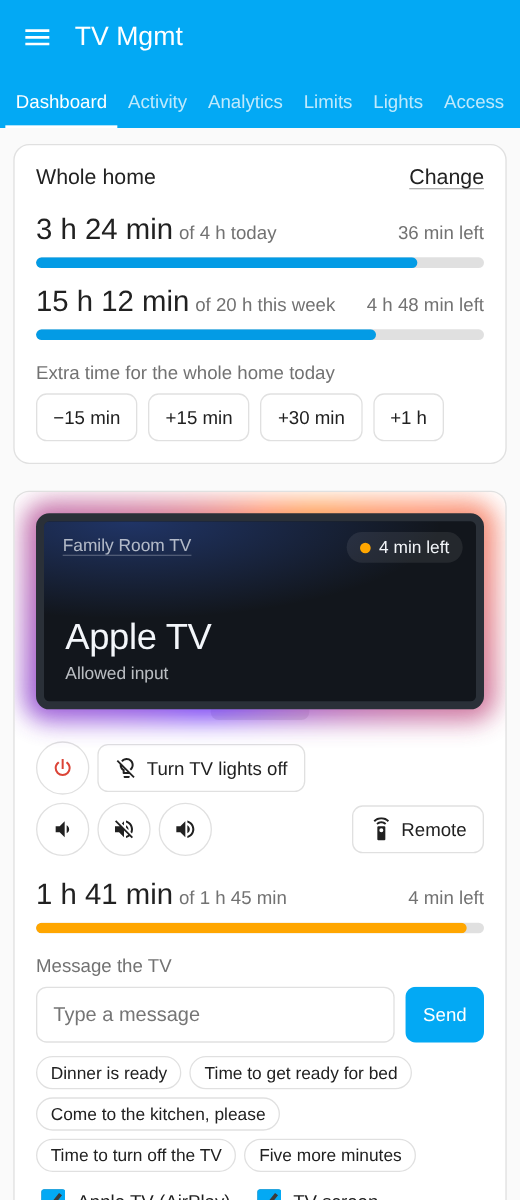
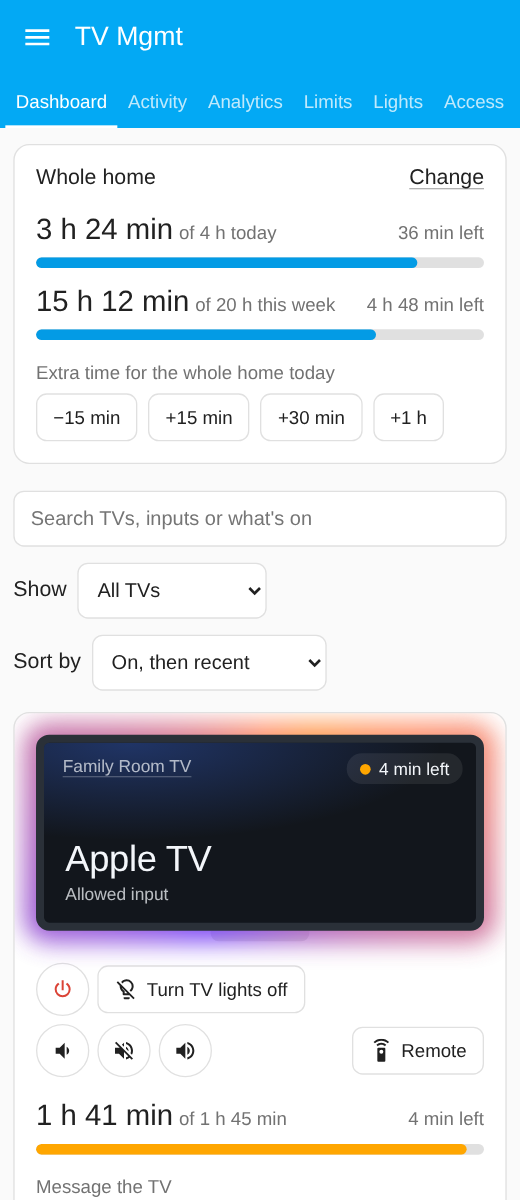
Release 1.19.0
Claude-Session: https://claude.ai/code/session_01LzktUr4qADPYKbCumQAMGZ

diff --git a/custom_components/tv_mgmt/frontend/tv-mgmt-panel.js b/custom_components/tv_mgmt/frontend/tv-mgmt-panel.js
@@ -2,6 +2,20 @@
 // Talks to the integration over Home Assistant's websocket (tv_mgmt/* commands).
 
 const EXPANDED_KEY = "tv-mgmt-expanded";
+const DASH_KEY = "tv-mgmt-dashboard";
+const DASH_SORTS = [
+  { id: "activity", label: "On, then recent" },
+  { id: "name", label: "Name" },
+  { id: "watched", label: "Most watched today" },
+];
+const DASH_SHOWS = [
+  { id: "all", label: "All TVs" },
+  { id: "on", label: "On now" },
+  { id: "today", label: "Watched today" },
+  { id: "off", label: "Off" },
+  { id: "blocked", label: "Blocked" },
+  { id: "unreachable", label: "Can't reach" },
+];
 
 const TABS = [
   { id: "dashboard", label: "Dashboard" },
@@ -458,6 +472,10 @@ main.wide { max-width: 1760px; }
 .switch input:focus-visible + span { outline: 2px solid var(--primary-color); outline-offset: 2px; }
 
 .toolbar { display: flex; flex-wrap: wrap; gap: 12px; align-items: center; justify-content: space-between; margin-bottom: 16px; }
+.dash-tools { justify-content: flex-start; }
+.dash-tools .inline { display: inline-flex; align-items: center; gap: 8px; }
+.dash-tools select { width: auto; }
+.dash-search { flex: 1; min-width: 220px; max-width: 420px; }
 .picker { display: flex; flex-wrap: wrap; gap: 6px; }
 .picker .btn[aria-pressed="true"] { background: var(--primary-color); color: var(--text-primary-color, #fff); border-color: transparent; }
 .date-nav { display: flex; align-items: center; gap: 4px; }
@@ -708,6 +726,83 @@ class TvMgmtPanel extends HTMLElement {
     }
     this._msgDrafts = {};
     this._msgNote = {};
+    // Dashboard sort and filter, remembered on this device; the search isn't.
+    this._dash = { sort: "activity", show: "all", query: "" };
+    try {
+      const saved = JSON.parse(localStorage.getItem(DASH_KEY) || "{}");
+      if (DASH_SORTS.some((o) => o.id === saved.sort)) this._dash.sort = saved.sort;
+      if (DASH_SHOWS.some((o) => o.id === saved.show)) this._dash.show = saved.show;
+    } catch (err) {
+      /* storage unavailable: the defaults */
+    }
+    // When each TV was last seen on in this browser, so one just turned off
+    // moves to "recent" before the next refresh.
+    this._seenOn = {};
+    this._onNow = new Set();
+  }
+
+  _saveDash() {
+    try {
+      localStorage.setItem(DASH_KEY, JSON.stringify({ sort: this._dash.sort, show: this._dash.show }));
+    } catch (err) {
+      /* not remembered, still works */
+    }
+  }
+
+  // The TV's power from Home Assistant right now: true, false, or null when
+  // it can't be reached. Falls back to what the backend last reported.
+  _tvOn(p) {
+    const st = this._hass?.states?.[p.tv_entity_id];
+    if (!st) return p.is_on;
+    if (["unavailable", "unknown"].includes(st.state)) return null;
+    return !["off", "standby"].includes(st.state);
+  }
+
+  // A TV that was on and now isn't was just watched.
+  _noteOn() {
+    for (const p of this._profiles || []) {
+      if (this._tvOn(p) === true) this._onNow.add(p.entry_id);
+      else if (this._onNow.delete(p.entry_id)) this._seenOn[p.entry_id] = Date.now();
+    }
+  }
+
+  // Infinity while on, so TVs that are on come first and sort by name among
+  // themselves; otherwise the newest of the backend's log and this browser.
+  _lastOn(p) {
+    if (this._tvOn(p) === true) return Infinity;
+    const logged = p.last_on ? new Date(p.last_on).getTime() : 0;
+    return Math.max(logged || 0, this._seenOn[p.entry_id] || 0);
+  }
+
+  _dashProfiles() {
+    const d = this._dash;
+    const query = d.query.toLowerCase();
+    const today = new Date();
+    today.setHours(0, 0, 0, 0);
+    const matches = (p) => {
+      if (!query) return true;
+      const atv = p.apple_tv?.entity_id ? this._hass?.states?.[p.apple_tv.entity_id]?.attributes || {} : {};
+      return [p.name, nameOf(p, p.current_input), atv.app_name, atv.media_title, atv.media_series_title]
+        .some((v) => v && String(v).toLowerCase().includes(query));
+    };
+    const shows = {
+      all: () => true,
+      on: (p) => this._tvOn(p) === true,
+      today: (p) => this._lastOn(p) >= today.getTime() || p.used_seconds > 0,
+      off: (p) => this._tvOn(p) === false,
+      blocked: (p) => p.state === "enforcing" || p.force_block,
+      unreachable: (p) => this._tvOn(p) == null,
+    };
+    const byName = (a, b) => a.name.localeCompare(b.name);
+    const sorts = {
+      // Infinity - Infinity is NaN, which counts as a tie.
+      activity: (a, b) => this._lastOn(b) - this._lastOn(a) || byName(a, b),
+      name: byName,
+      watched: (a, b) => b.used_seconds - a.used_seconds || byName(a, b),
+    };
+    return this._profiles
+      .filter((p) => (shows[d.show] || shows.all)(p) && matches(p))
+      .sort(sorts[d.sort] || sorts.activity);
   }
 
   _toggleExpanded(id) {
@@ -758,6 +853,15 @@ class TvMgmtPanel extends HTMLElement {
   // Redraw just the Apple TV "Now playing" spots when their media player changes.
   _refreshNowPlaying() {
     if (this._tab !== "dashboard" || !this._profiles) return;
+    this._noteOn();
+    // Move TVs that turned on or off, unless someone is using a control or
+    // typing (it would jump away from under them).
+    const active = this.shadowRoot.activeElement;
+    const busy = active && ["INPUT", "SELECT", "TEXTAREA"].includes(active.tagName);
+    if (!busy && this._dashProfiles().map((p) => p.entry_id).join(",") !== this._dashOrder) {
+      this._render();
+      return;
+    }
     this._npStates = this._npStates || {};
     this._ambStates = this._ambStates || {};
     for (const p of this._profiles) {
@@ -1081,7 +1185,21 @@ class TvMgmtPanel extends HTMLElement {
   // Dashboard ------------------------------------------------------------------------
 
   _renderDashboard() {
-    return `${this._renderHomeStrip()}<div class="grid">${this._profiles.map((p) => this._renderTv(p)).join("")}</div>`;
+    this._noteOn();
+    const shown = this._dashProfiles();
+    this._dashOrder = shown.map((p) => p.entry_id).join(",");
+    const d = this._dash;
+    const toolbar = this._profiles.length > 1
+      ? `<div class="toolbar dash-tools">
+          <input type="text" id="dash-search" class="dash-search" placeholder="Search TVs, inputs or what's on" value="${esc(d.query)}" aria-label="Search TVs" autocomplete="off">
+          <label class="inline">Show <select id="dash-show">${DASH_SHOWS.map((o) => `<option value="${o.id}" ${o.id === d.show ? "selected" : ""}>${o.label}</option>`).join("")}</select></label>
+          <label class="inline">Sort by <select id="dash-sort">${DASH_SORTS.map((o) => `<option value="${o.id}" ${o.id === d.sort ? "selected" : ""}>${o.label}</option>`).join("")}</select></label>
+        </div>`
+      : "";
+    const body = shown.length
+      ? `<div class="grid">${shown.map((p) => this._renderTv(p)).join("")}</div>`
+      : `<div class="empty"><h2>No TVs match</h2><p>${d.query ? "Try another search, or " : ""}<button class="btn" data-dash-reset>Show all TVs</button></p></div>`;
+    return `${this._renderHomeStrip()}${toolbar}${body}`;
   }
 
   // The whole home's TV time, above the TVs, when a home limit is set.
@@ -3028,6 +3146,12 @@ class TvMgmtPanel extends HTMLElement {
       this._toggleShow(el.dataset.id, el.dataset.blockShow);
       return;
     }
+    if (el.dataset.dashReset !== undefined) {
+      this._dash = { ...this._dash, show: "all", query: "" };
+      this._saveDash();
+      this._render();
+      return;
+    }
     if (el.dataset.expand) {
       this._toggleExpanded(el.dataset.expand);
       return;
@@ -3080,6 +3204,12 @@ class TvMgmtPanel extends HTMLElement {
 
   _onChange(ev) {
     const input = ev.target;
+    if (input.id === "dash-sort" || input.id === "dash-show") {
+      this._dash[input.id === "dash-sort" ? "sort" : "show"] = input.value;
+      this._saveDash();
+      this._render();
+      return;
+    }
     if (this._tab === "lights" && this._onLightsChange(input)) return;
     if (input.dataset.light !== undefined && this._lightsDraft) {
       if (input.checked) this._lightsDraft.picked.add(input.dataset.light);
@@ -3141,6 +3271,17 @@ class TvMgmtPanel extends HTMLElement {
   }
 
   _onInput(ev) {
+    if (ev.target.id === "dash-search") {
+      const box = ev.target;
+      clearTimeout(this._dashTimer);
+      this._dashTimer = setTimeout(() => {
+        this._dash.query = box.value.trim();
+        this._render();
+        const again = this.shadowRoot.getElementById("dash-search");
+        if (again) { again.focus(); again.setSelectionRange(again.value.length, again.value.length); }
+      }, 200);
+      return;
+    }
     if (this._tab === "lights" && this._onLightsInput(ev.target)) return;
     if (ev.target.dataset.lightFilter !== undefined && this._lightsDraft) {
       this._lightsDraft.filter = ev.target.value;

diff --git a/scripts/panel-preview/index.html b/scripts/panel-preview/index.html
@@ -158,6 +158,16 @@ const lightTvs = {
         failed_lights: {}, last_error: null, pending: null, save_title: null, outcome: null, players: ["media_player.playroom_tv"], name: "Ceiling" }, entities: {} },
   ] },
 };
+profiles[0].last_on = t(17, 5);
+profiles[1].last_on = t(16, 0);
+// many=1: two more TVs, off, one watched a few minutes ago, for the
+// dashboard's order, search and filters.
+if (params.get("many")) {
+  profiles.push({ ...profiles[1], entry_id: "den", name: "Den TV", tv_entity_id: "media_player.den_tv", state: "ok", reason: null, used_seconds: 20*60, last_on: t(19, 30) });
+  profiles.push({ ...profiles[1], entry_id: "gar", name: "Garage TV", tv_entity_id: "media_player.garage_tv", state: "ok", reason: null, used_seconds: 0, last_on: null, is_on: null });
+  states["media_player.den_tv"] = { entity_id: "media_player.den_tv", state: "off", attributes: {} };
+  states["media_player.garage_tv"] = { entity_id: "media_player.garage_tv", state: "unavailable", attributes: {} };
+}
 // blocked=1: the Family Room TV off for bedtime, its zones paused (as on a real
 // evening). Zones can still be changed and removed.
 if (params.get("blocked")) {

diff --git a/scripts/panel-preview/shoot.py b/scripts/panel-preview/shoot.py
@@ -8,7 +8,7 @@ width in light and dark themes. Fails if the page logs any error.
 
 The page takes query parameters: theme=light|dark, single=1 (one TV),
 empty=1 (no TVs), denied=1 (a user without access), nohome=1 (no whole-home limit),
-blocked=1 (the first TV off for bedtime, its light zones paused), busy=1 (a live
+blocked=1 (the first TV off for bedtime, its light zones paused), many=1 (two more TVs, for the dashboard's order, search and filters), busy=1 (a live
 update every 50 ms, as with lots of media players), loading=1 (every
 request stays loading) and loading=tabs (the TVs load, each tab's data stays
 loading), to see the placeholders; saved as loading-*.png.

diff --git a/custom_components/tv_mgmt/activity.py b/custom_components/tv_mgmt/activity.py
@@ -185,6 +185,18 @@ class ActivityLog:
     # ---- reading ---------------------------------------------------------------
 
     @property
+    def last_on(self) -> str | None:
+        """When the TV was last on: the latest time it turned on or off."""
+        return next(
+            (
+                event["t"]
+                for event in reversed(self.events)
+                if event["type"] in (EV_TV_ON, EV_TV_OFF)
+            ),
+            None,
+        )
+
+    @property
     def last_power(self) -> tuple[bool | None, str | None]:
         """(on, source) as last logged."""
         on: bool | None = None

diff --git a/custom_components/tv_mgmt/websocket.py b/custom_components/tv_mgmt/websocket.py
@@ -174,6 +174,8 @@ def profile_summary(manager: TVManager) -> dict[str, Any]:
         # Time on in adult mode today. Part of used_seconds only when it counts.
         "adult_seconds": state.adult_seconds,
         "used_seconds": state.used_seconds,
+        # When the TV was last on, so the dashboard can list recent TVs first.
+        "last_on": manager.activity.last_on,
         "budget_minutes": manager.daily_budget,
         "extension_minutes": state.extension_minutes,
         "warn_minutes": manager.warn_minutes,

diff --git a/tests/test_activity.py b/tests/test_activity.py
@@ -68,6 +68,16 @@ def test_last_power():
     assert log.last_power == (False, None)
 
 
+def test_last_on():
+    log = ActivityLog()
+    assert log.last_on is None
+    log.add(at(10), EV_TV_ON, source="HDMI 1")
+    log.add(at(11), EV_INPUT, source="HDMI 2")
+    assert log.last_on == at(10).isoformat()
+    log.add(at(12), EV_TV_OFF)
+    assert log.last_on == at(12).isoformat()
+
+
 def test_prune_keeps_state_before_cutoff():
     log = ActivityLog()
     old = at(10) - timedelta(days=KEEP_EVENT_DAYS + 5)

diff --git a/README.md b/README.md
@@ -118,7 +118,7 @@ TV Mgmt adds a **TV Mgmt** entry to the Home Assistant sidebar for admins, and f
 
 *Screenshots use sample data.*
 
-- **Dashboard.** Every TV at a glance. Each TV starts collapsed to just its screen, with what the Apple TV is playing inside it, and a line with today's time. When the TV's lights are on (its TV lights and the lights in its light sync zones), their colors glow around the screen, changing as the lights change. Tap that line to open the TV; your phone or browser remembers which are open. Open, a TV spreads out into columns on a wide screen, with the TV, the Apple TV and the controls side by side. On a phone they stack.
+- **Dashboard.** Every TV at a glance. Each TV starts collapsed to just its screen, with what the Apple TV is playing inside it, and a line with today's time. When the TV's lights are on (its TV lights and the lights in its light sync zones), their colors glow around the screen, changing as the lights change. Tap that line to open the TV; your phone or browser remembers which are open. TVs that are on come first, then the ones watched most recently. With two or more TVs, a bar above them lets you search by TV name, input, or what's on the Apple TV, show only some TVs (on now, watched today, off, blocked, or can't reach), and sort by name or by most watched today instead. Your phone or browser remembers the sort and filter. Open, a TV spreads out into columns on a wide screen, with the TV, the Apple TV and the controls side by side. On a phone they stack.
   - what it's showing, and whether that's allowed
   - time used and time left
   - extra time, blocked switches and the last input someone tried

diff --git a/CHANGELOG.md b/CHANGELOG.md
@@ -5,6 +5,17 @@ All notable changes to this project are documented in this file.
 The format is based on [Keep a Changelog](https://keepachangelog.com/en/1.1.0/),
 and this project adheres to [Semantic Versioning](https://semver.org/spec/v2.0.0.html).
 
+## [1.19.0] - 2026-10-31
+
+### Added
+
+- **Dashboard order, search and filters.** TVs that are on come first, then the ones watched most recently. A TV that was just turned off moves down to the recent ones straight away. With two or more TVs, a bar above them lets you:
+  - search by TV name, input, or what's on the Apple TV;
+  - show only TVs that are on now, watched today, off, blocked, or can't be reached;
+  - sort by name or by most watched today instead.
+
+  Your sort and filter are remembered on each device.
+
 ## [1.18.1] - 2026-10-31
 
 ### Fixed
@@ -439,6 +450,7 @@ Existing profiles upgrade automatically. Their input-lock settings, entity IDs a
 - **Blocked switches** sensor with the last blocked input and time.
 - `tv_mgmt_blocked` event fired on every block, for automations.
 
+[1.19.0]: https://github.com/bisman-automations/ha-tv-mgmt/compare/v1.18.1...v1.19.0
 [1.18.1]: https://github.com/bisman-automations/ha-tv-mgmt/compare/v1.18.0...v1.18.1
 [1.18.0]: https://github.com/bisman-automations/ha-tv-mgmt/compare/v1.17.1...v1.18.0
 [1.17.1]: https://github.com/bisman-automations/ha-tv-mgmt/compare/v1.17.0...v1.17.1
